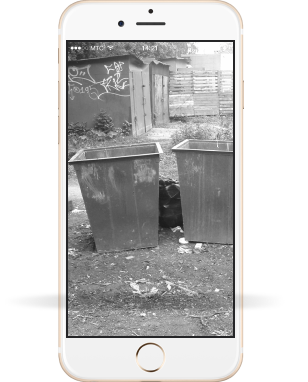
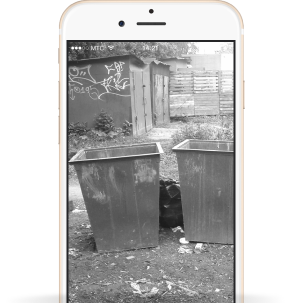
PP Desktop - information

diff --git a/source/less/components/information.less b/source/less/components/information.less
@@ -1,4 +1,5 @@
 .information {
+  position: relative;
   padding-top: 40px;
 
   @media (min-width: @tablet-width) {
@@ -6,7 +7,25 @@
   }
 
   @media (min-width: @desktop-width) {
-    padding-top: 77px;
+    padding-top: 63px;
+    background-image: url("../img/first-phone-bg-desktop.png"), url("../img/second-phone-bg-desktop.png"), url("../img/third-phone-bg-desktop.png");
+    background-repeat: no-repeat;
+    background-position: 184px 323px, 500px 300px, right center;
+  }
+
+  &::after {
+    @media (min-width: @desktop-width) {
+      display: block;
+      position: absolute;
+      content: "";
+      width: 100%;
+      min-height: 625px;
+      left: 0;
+      top: 0;
+      background-image: url("../img/first-phone-bg-desktop.png"), url("../img/second-phone-bg-desktop.png"), url("../img/third-phone-bg-desktop.png");
+      background-position: 125px bottom, 445px bottom, 765px bottom;
+      background-repeat: no-repeat;
+    }
   }
 }
 
@@ -39,6 +58,10 @@
       clip: rect(0 268px 483px 0);
       background-image: url("../img/phone-bg-tablet.png");
     }
+
+    @media (min-width: @desktop-width) {
+      background-image: none;
+    }
   }
 
   @media (min-width: @tablet-width) {
@@ -48,10 +71,10 @@
   }
 
   @media (min-width: @desktop-width) {
-    padding-left: 130px;
+    padding-left: 150px;
     padding-right: 130px;
     padding-bottom: 59px;
-    padding-top: 269px;
+    padding-top: 265px;
   }
 }
 
@@ -65,14 +88,14 @@
     width: 100%;
     height: 34px;
     background-color: @grey;
-    clip-path: polygon(100% 1%, -5% 100%, 100% 100%);
+    clip-path: polygon(100% 0%, 0% 100%, 100% 100%);
 
     @media (min-width: @tablet-width) {
       height: 50px;
     }
 
     @media (min-width: @tablet-width) {
-      height: 60px;
+      height: 90px;
     }
   }
 }
@@ -110,7 +133,7 @@
     }
 
     @media (min-width: @desktop-width) {
-      margin-bottom: 66px;
+      margin-bottom: 58px;
     }
   }
 }

diff --git a/source/index.html b/source/index.html
@@ -65,7 +65,7 @@
                 <p class="information__term-text">Сделайте снимок и украсьте его смайликом или текстовой подписью, чтобы <br class="page-body__br-tablet-none"> усилить эффект</p>
               </li>
               <li class="information__term">
-                <h2 class="information__term-title">Заводит новых друзей</h2>
+                <h2 class="information__term-title">Заводит <br class="page-body__br-desktop-none"> новых друзей</h2>
                 <p class="information__term-text">Ставьте лайки, комментируйте, делитесь фотографиями с друзьями и заводите новых</p>
               </li>
             </ul>

diff --git a/source/less/components/intro.less b/source/less/components/intro.less
@@ -68,7 +68,6 @@
     margin-top: 120px;
     margin-bottom: 35px;
   }
-
 }
 
 .intro__app-block {
@@ -106,7 +105,6 @@
   @media (min-width: @desktop-width) {
     font-size: 21px;
     margin-bottom: 70px;
-
   }
 }
 
@@ -128,7 +126,6 @@
     padding-right: 0;
     justify-content: flex-start;
   }
-
 }
 
 .intro__item {

diff --git a/source/less/components/contacts.less b/source/less/components/contacts.less
@@ -150,6 +150,7 @@
 
 .contacts__map {
   width: 100%;
+
   @media (min-width: @tablet-width) {
     height: 400px;
   }
